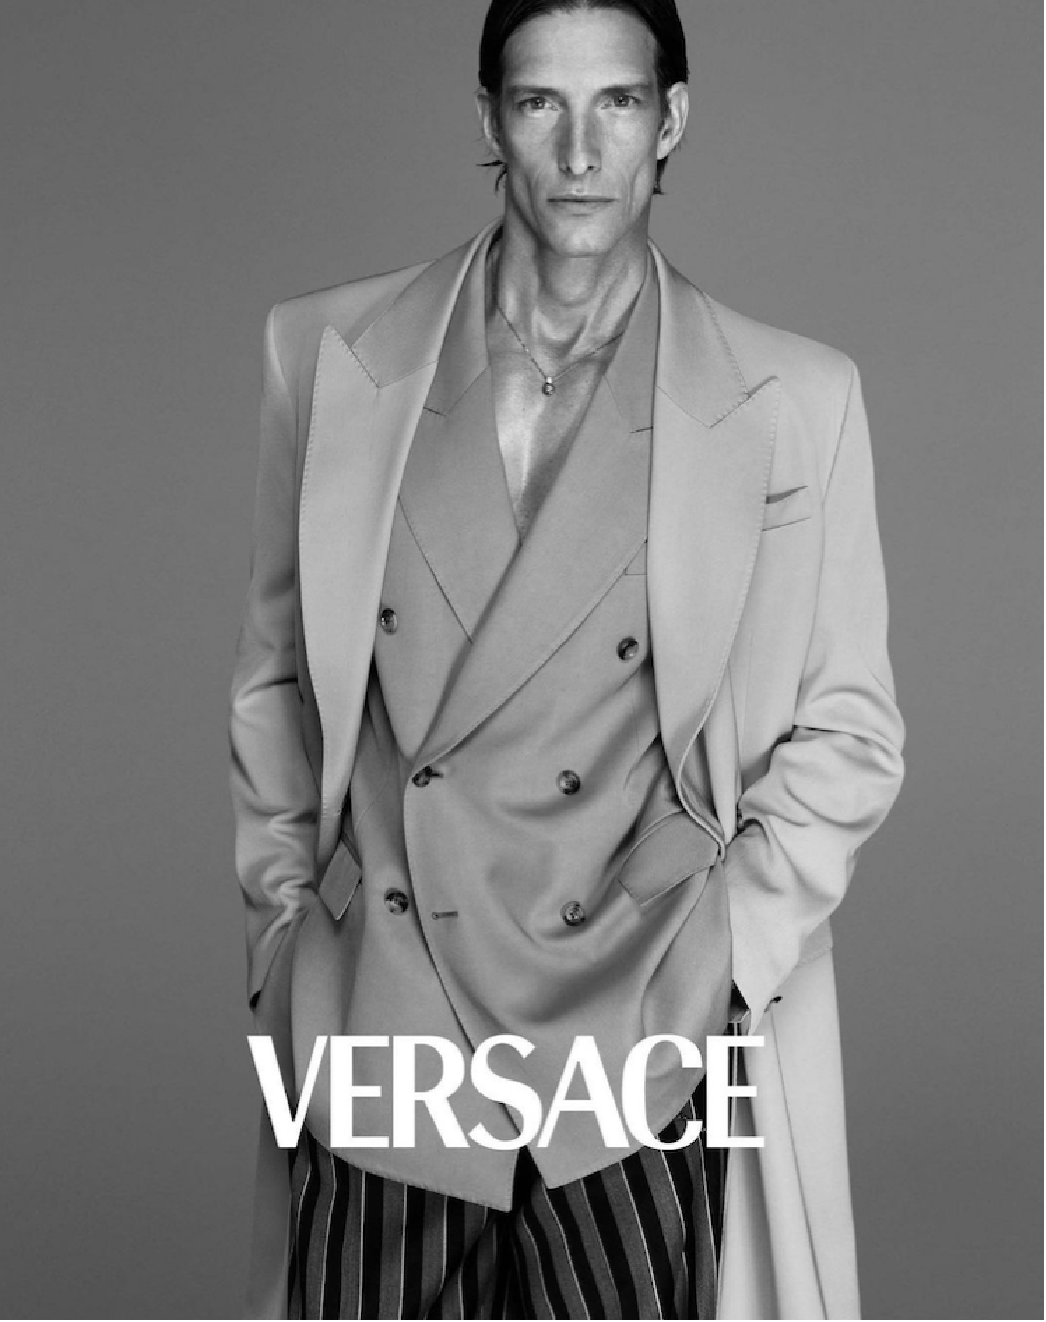
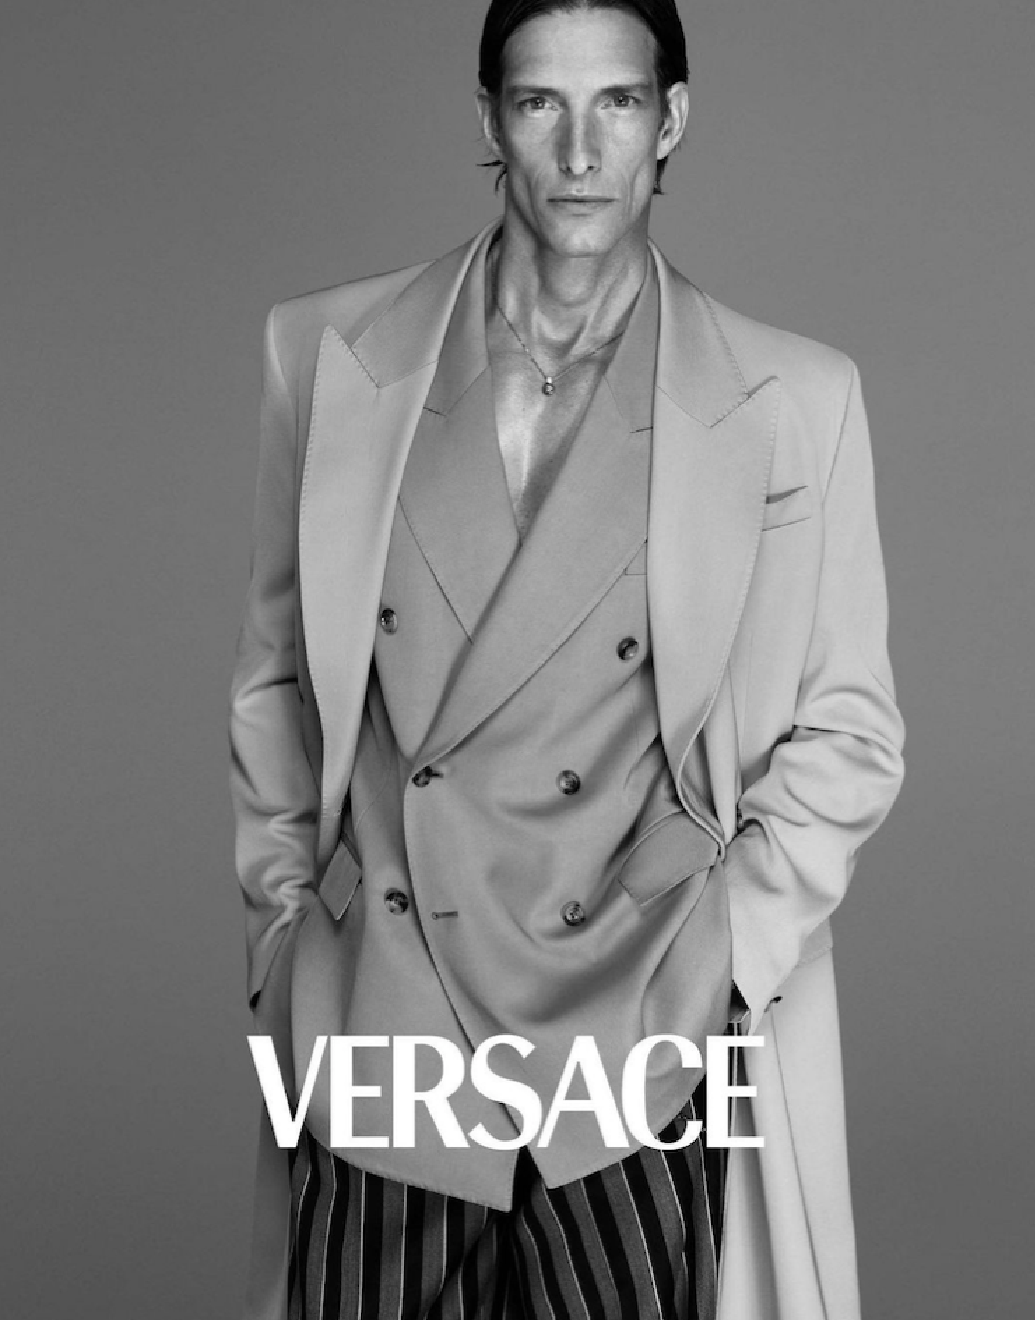
cambio foto pineda

diff --git a/css/estilos1.css b/css/estilos1.css
@@ -9,7 +9,7 @@
 body {
   
    
-    background-image: radial-gradient(circle, rgba(250, 157, 201, 0.2) 0%, rgba(253, 226, 226, 0.1) 100%), url(/imágenes/FONDOS/PINEDAVERSACE3.png);
+    background-image: radial-gradient(circle, rgba(250, 157, 201, 0.2) 0%, rgba(253, 226, 226, 0.1) 100%), url(/imágenes/FONDOS/PINEDAVERSACE3GDE.png);
     background-repeat: no-repeat;
     background-size: cover;
     background-color: #fff;
